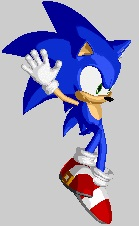
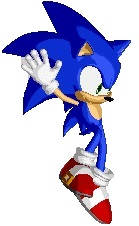
crlear sonic bg & correct reset on win

diff --git a/js/main.js b/js/main.js
@@ -150,9 +150,10 @@ var Mechanics = {
 
 	win: function(){
 		alert("Arcade Memorium: Complete!");
+		var _self = this;
 		setTimeout(function(){
 			CardSystem.flipAllCards();
-			this.reset();
+			_self.reset();
 		}, 5000 );
 	}
 }
